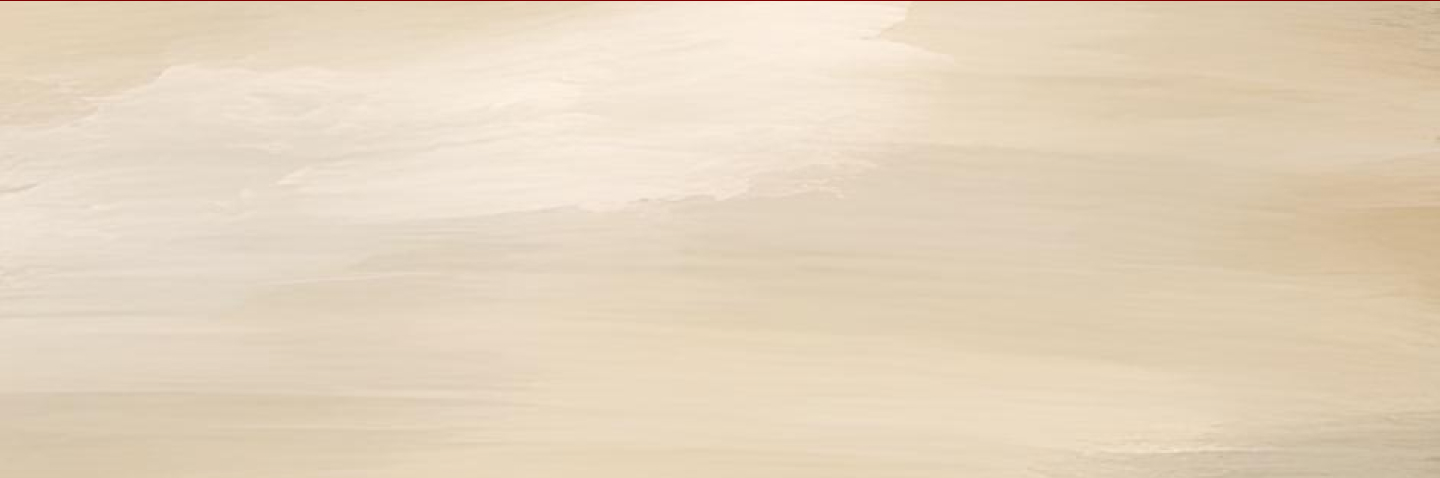
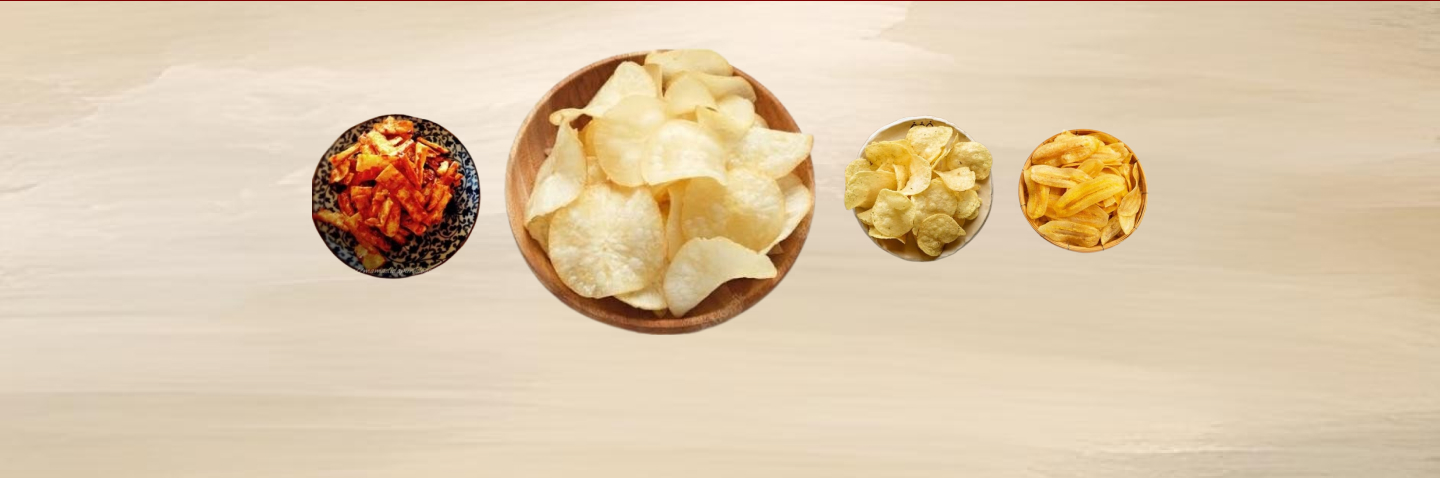
bikin produk

Changed region(s): [[0.2188, 0.0879, 0.8125, 0.7029]]

diff --git a/frontend/src/pages/HomeProduct.jsx b/frontend/src/pages/HomeProduct.jsx
@@ -4,7 +4,7 @@ import { ShoppingCartOutlined } from '@ant-design/icons';
 import axios from "axios";
 import { URL_PRODUCT } from "../utils/Endpoint";
 import { Link } from "react-router-dom";
-import jumbotron_home from "../assets/jumbotron_home.jpg";
+import jumbotron_produk from "../assets/jumbotron_produk.jpg";
 import balung from "../assets/k-balung-kuwuk.jpg";
 import pisang from "../assets/k-pisang.jpg";
 import talas from "../assets/k-talas.jpg";
@@ -48,71 +48,11 @@ const HomeProduct = () => {
     };
 
     return (
-        <div style={{ padding: '0' }}>
-            <div style={{width: '100%', height: '100%', padding: '0', position: 'relative'}}>
-                <div style={{position: 'absolute', top: '10rem', left: '15rem'}}>
-                    <p className="calistoga-regular" style={{ color: 'black', margin: '0 0 12px 0', fontSize: '2rem', lineHeight: 1.2}}>
-                        Rasakan Kelezatan <br />
-                        <span style={{color: '#800000'}}>Keripik Mantul !</span>
-                    </p>
-                    <p style={{ color: 'black', fontSize: '1.1rem', margin: '0 0 20px 0', lineHeight: 1.2    }}>
-                        Dibuat dari bahan berkualitas, <br />
-                        Keripik Mantul memberikan pengalaman <br />
-                        ngemil terbaik yang tak terlupakan.
-                    </p>
-                    <Link to="#" onClick={() => {
-                        const targetElement = document.getElementById('product-list');
-                        if (targetElement) {
-                            targetElement.scrollIntoView({ behavior: 'smooth', block: 'start' });
-                        }
-                    }}>
-                        <Button
-                            type="secondary"
-                            className="border-0 border-red-800 hover:border-red-600 hover:text-red-700"
-                            style={{
-                                backgroundColor: '#800000',
-                                color: 'white',
-                                borderRadius: '20px',
-                                padding: '0px 15px 3px 15px',
-                                height: '45px',
-                                fontSize: '1.2rem',
-                                fontWeight: '500'
-                            }}
-                        >
-                            Beli Sekarang
-                        </Button>
-                    </Link>
-                </div>
-                <img src={jumbotron_home} alt="" draggable='false'/>
+        <div style={{ padding: '0', position:'relative' }}>
+            <div style={{width: '100%', height: '55vh', padding: '0', position: 'relative', backgroundColor: 'transparent'}}>
+                <img src={jumbotron_produk} alt="" draggable='false' style={{zIndex:'0', position: 'absolute'}}/>
             </div>
-            <div className="py-9 px-10">
-                <div className="flex justify-center flex-col mb-11">
-                    <Title level={2} style={{alignSelf: 'start'}}>Kategori</Title>
-                    <div className="px-6 py-8 bg-[#F2E8C6] flex justify-center" style={{borderRadius: '20px', width: 'fit-content', alignSelf: 'center', minHeight: '100'}}>
-                        <div className="category-div mx-3 flex flex-col" style={{width: '450px', minHeight: '100'}} >
-                            <Title level={2} className="text-center mt-5">Keripik Singkong</Title>
-                            <img src={singkong} alt="" className="mt-9" style={{alignSelf: 'center', width:'364px', height: '275px'}}/>
-                        </div>
-                        <div className="flex flex-col mx-3">
-                            <div className="flex justify-between p-0" style={{gap: '20px', marginBottom: '19px'}}>
-                                <div className="category-div flex flex-col" style={{width: '284px', height: '225px'}}>
-                                    <Title level={2} className="text-center mt-5">Keripik Talas</Title>
-                                    <img src={talas} alt="" className="" style={{alignSelf: 'center', width:'166px', height: '141px'}}/>
-                                </div>
-                                <div className="category-div flex flex-col" style={{width: '284px', height: '225px'}}>
-                                    <Title level={2} className="text-center mt-5">Keripik Pisang</Title>
-                                    <img src={pisang} alt="" className="" style={{alignSelf: 'center', width:'160px', height: '135px'}}/>
-                                </div>
-                            </div>
-                            <div className="flex justify-between">
-                                <div className="category-div flex gap-5" style={{width: '100%', height: '206px'}}>
-                                    <img src={balung} alt="" className="ms-9" style={{alignSelf: 'center', width:'154px', height: '180px'}}/>
-                                    <Title level={2} className="text-center" style={{marginBottom: 'auto', marginTop:'auto'}}>Keripik Balung Kuwuk</Title>
-                                </div>
-                            </div>
-                        </div>
-                    </div>
-                </div>
+            <div className="py-9 px-10 bg-white relative" style={{zIndex: '5', borderRadius: '80px 80px 0 0'}}>
                 <section id="product-list" className="mb-11">
                     <Title level={2}>Produk Terlaris</Title>
                     <div className="bg-[#F2E8C6] p-5">
